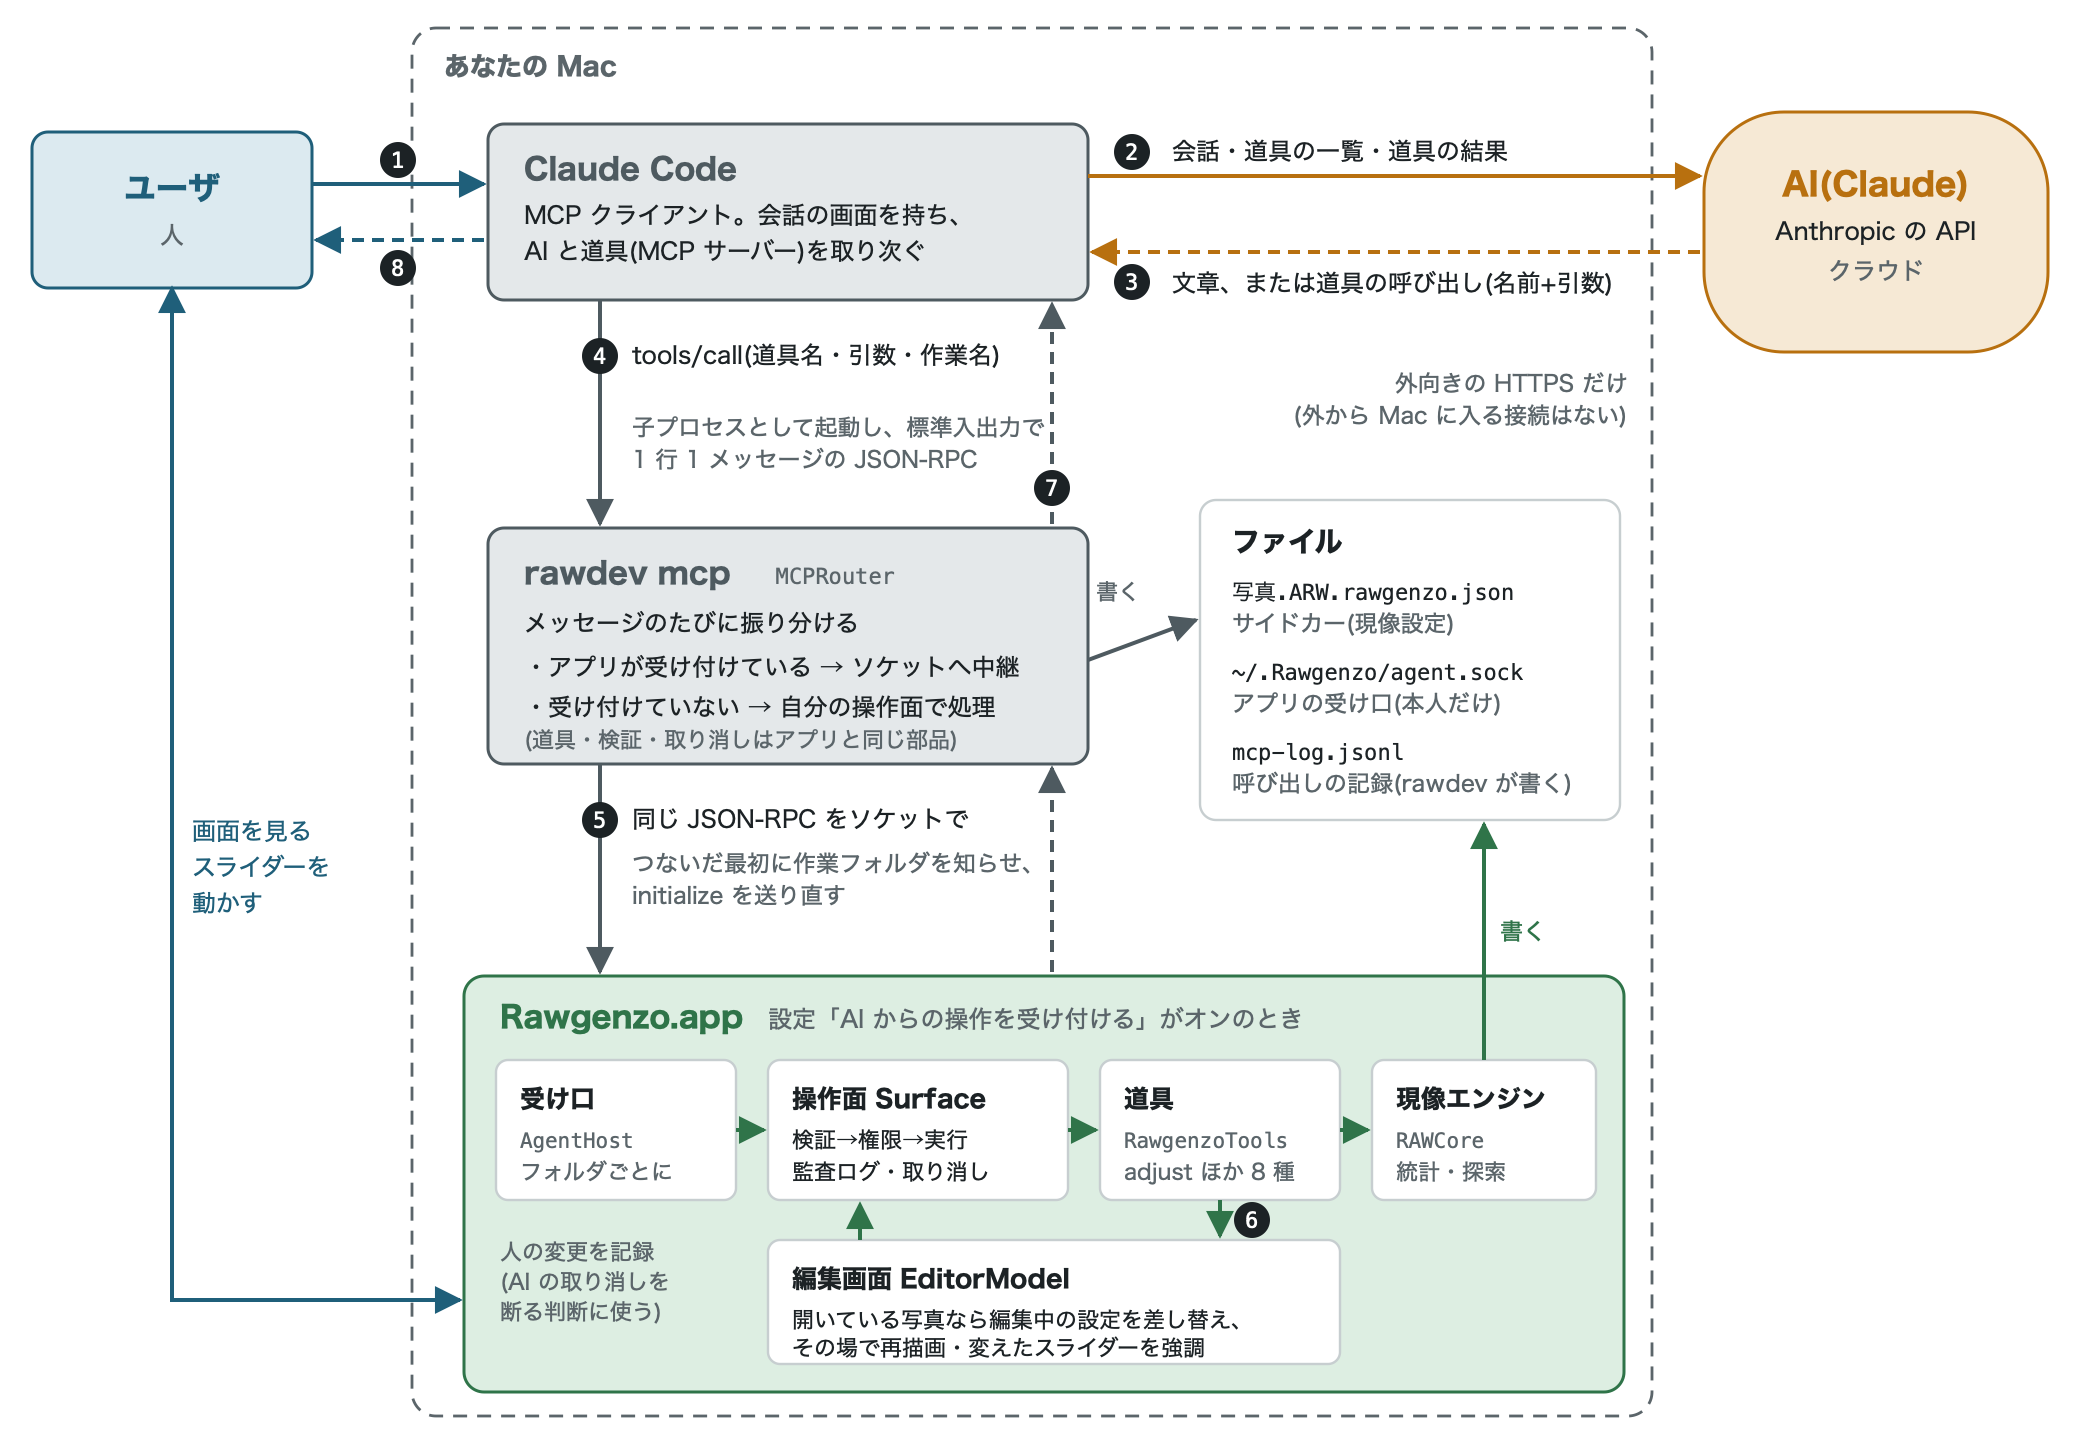
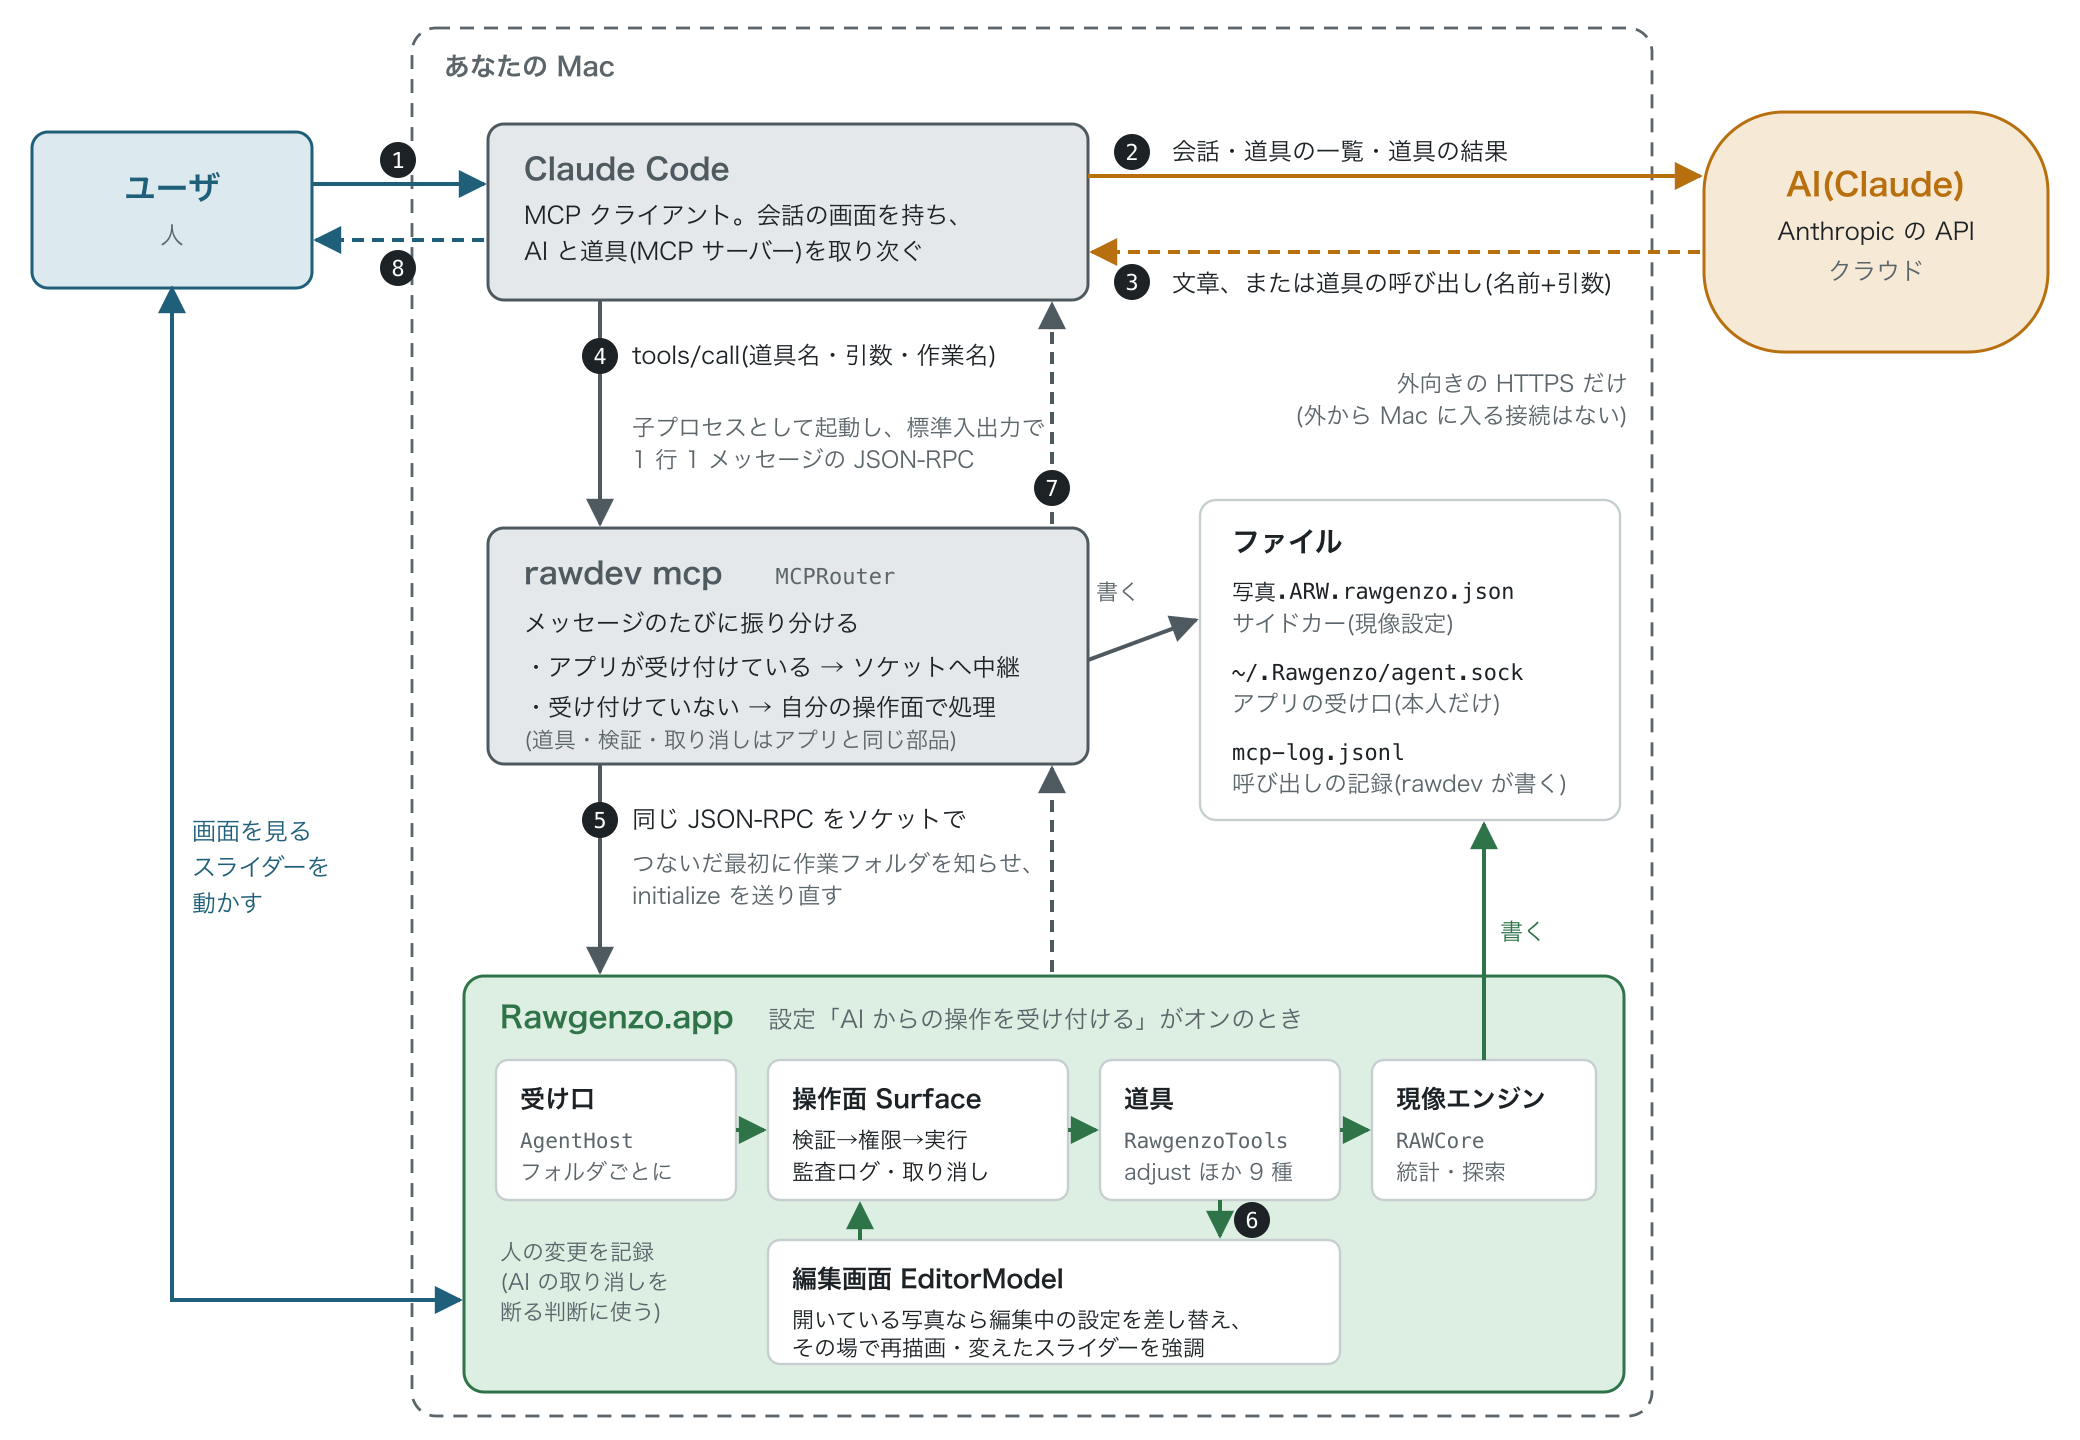
アプリで今開いている写真を返す道具 get_app_state を追加
「この写真」「今開いている写真」と言われたとき、AI がユーザの見ている写真を引けるようにする。
アプリが受け付けていれば、開いている写真の ID・フォルダが作業フォルダか・表示倍率・クロップ中かを返す。
作業フォルダの外の写真なら操作できないと知らせ、アプリにつながっていなければユーザに聞くよう促す。
文書の図の道具の数と一覧の字数(約 11,000 字)も直した(PNG は rsvg-convert で作り直した)。

diff --git a/Tests/RawgenzoSurfaceTests/RawgenzoSurfaceTests.swift b/Tests/RawgenzoSurfaceTests/RawgenzoSurfaceTests.swift
@@ -21,7 +21,7 @@ final class RawgenzoToolsSchemaTests: XCTestCase {
         let ws = RawgenzoWorkspace(folder: FileManager.default.temporaryDirectory)
         let surface = RawgenzoTools.makeSurface(workspace: ws)
         XCTAssertEqual(surface.descriptors.map(\.name),
-                       ["list_photos", "get_photo", "get_stats", "get_preview", "adjust", "solve_exposure", "undo", "recent_operations"])
+                       ["get_app_state", "list_photos", "get_photo", "get_stats", "get_preview", "adjust", "solve_exposure", "undo", "recent_operations"])
         XCTAssertEqual(surface.descriptors.first { $0.name == "adjust" }?.effect, .modify)
     }
 
@@ -253,6 +253,10 @@ final class RawgenzoAgentHostTests: XCTestCase {
         var settings = DevelopSettings()
         var applied: [(DevelopSettings, ChangeOrigin?)] = []
         func liveSettings(for url: URL) -> DevelopSettings? { url == openURL ? settings : nil }
+        var folderShown: URL?
+        func viewState() -> AppViewState {
+            AppViewState(folder: folderShown, openPhoto: openURL, zoom: 1, fitsWindow: false, isCropping: false)
+        }
         func applyLive(_ s: DevelopSettings, for url: URL, origin: ChangeOrigin?) -> Bool {
             guard url == openURL else { return false }
             settings = s
@@ -334,6 +338,30 @@ final class RawgenzoAgentHostTests: XCTestCase {
         XCTAssertEqual(replies.last?["result"]?["isError"], false, out)
         XCTAssertEqual(editor.settings.vibrance, 0.3, "アプリ(host)の編集中の設定に届いた")
         XCTAssertEqual(editor.applied.last?.1?.caller, .agent("mcp:relay"))
+    }
+
+    /// アプリで開いている写真を ID で返す。作業フォルダの外の写真なら操作できないと知らせる
+    func testAppStateReportsOpenPhoto() throws {
+        editor.folderShown = folder
+        func state() throws -> JSONValue {
+            let r = try exchange([RawgenzoBridge.handshake(folder: folder),
+                                  #"{"jsonrpc":"2.0","id":1,"method":"initialize","params":{"clientInfo":{"name":"t"}}}"#,
+                                  call(2, "get_app_state", [:])], replies: 2)
+            let text = try XCTUnwrap(r[1]["result"]?["content"]?.arrayValue?.first?["text"]?.stringValue)
+            return try JSONDecoder().decode(JSONValue.self, from: Data(text.utf8))
+        }
+        var s = try state()
+        XCTAssertEqual(s["app_connected"], true)
+        XCTAssertEqual(s["open_photo"], .string(ids[0]))
+        XCTAssertEqual(s["folder_is_workspace"], true)
+        XCTAssertEqual(s["zoom"], "100%")
+
+        editor.folderShown = URL(fileURLWithPath: "/somewhere/else", isDirectory: true)
+        editor.openURL = URL(fileURLWithPath: "/somewhere/else/DSC00001.ARW")
+        s = try state()
+        XCTAssertEqual(s["open_photo"], .null)
+        XCTAssertEqual(s["open_photo_outside_workspace"], "DSC00001.ARW")
+        XCTAssertEqual(s["app_folder"], "else")
     }
 
     func testRequiresHandshake() throws {
@@ -480,5 +508,17 @@ final class CrossProcessUndoTests: XCTestCase {
         XCTAssertTrue(rawdev.call("undo", as: ai).isError)
         XCTAssertEqual(saved(ids[0])?.exposure, 1, "断られなかった方の写真も変えない")
         XCTAssertEqual(saved(ids[1])?.exposure, 2)
+    }
+}
+
+final class AppStateWithoutAppTests: XCTestCase {
+    /// アプリにつながっていない(rawdev が自分で処理する)ときは、分からないと返す
+    func testWithoutApp() throws {
+        let surface = RawgenzoTools.makeSurface(workspace: RawgenzoWorkspace(folder: FileManager.default.temporaryDirectory))
+        let r = surface.call("get_app_state", as: .agent("t"))
+        XCTAssertFalse(r.isError)
+        guard case .json(let v)? = r.content.first else { return XCTFail("JSON が返らない") }
+        XCTAssertEqual(v["app_connected"], false)
+        XCTAssertNotNil(v["note"])
     }
 }

diff --git a/Sources/RawgenzoSurface/RawgenzoTools.swift b/Sources/RawgenzoSurface/RawgenzoTools.swift
@@ -11,6 +11,7 @@ public enum RawgenzoTools {
         設定は写真ごとのサイドカー(<RAW>.rawgenzo.json)に保存されます。adjust の変更は undo で取り消せます。
 
         進め方の目安:
+        - 「この写真」「今開いている写真」と言われたら、get_app_state でユーザがアプリで見ている写真を確かめる
         - list_photos で写真とメタデータ(ISO・レンズ・撮影日時など)を見る。条件で絞り込める
         - get_photo で今の設定を見る
         - 明るさや色の判断は、まず get_stats(数値。安い)で行う。画像が要るときだけ get_preview を使う(画像はトークンを多く使う)
@@ -62,6 +63,35 @@ public enum RawgenzoTools {
     // MARK: - 道具
 
     static func register(on surface: Surface, workspace ws: RawgenzoWorkspace) {
+        surface.register(ToolDescriptor(
+            name: "get_app_state", title: "アプリの表示",
+            description: "ユーザが Rawgenzo アプリで今見ているもの(開いている写真・表示倍率・クロップ中か)を返す。"
+                + "「この写真」「今開いている写真」と言われたらまず使う。open_photo が写真の ID。"
+                + "app_connected が false なら、アプリが起動していないか、AI からの操作の受け付けがオフで、アプリの状態は分からない",
+            effect: .read)) { _, _ in
+            guard let live = ws.live else {
+                return .json(["app_connected": false,
+                              "note": "Rawgenzo アプリにつながっていない(起動していないか、設定で AI からの操作の受け付けがオフ)。どの写真のことか、ユーザに聞くこと"])
+            }
+            let v = live.viewState()
+            var o: [String: JSONValue] = ["app_connected": true, "cropping": .bool(v.isCropping)]
+            let inWorkspace = v.folder.map { $0.standardizedFileURL.path == ws.folder.path } ?? false
+            o["folder_is_workspace"] = .bool(inWorkspace)
+            if let f = v.folder, !inWorkspace { o["app_folder"] = .string(f.lastPathComponent) }
+            if let p = v.openPhoto {
+                if inWorkspace, let id = try? ws.url(for: p.lastPathComponent).lastPathComponent {
+                    o["open_photo"] = .string(id)
+                } else {
+                    o["open_photo"] = .null
+                    o["open_photo_outside_workspace"] = .string(p.lastPathComponent)
+                    o["note"] = "アプリで開いている写真は、この作業フォルダの外にあるので操作できない"
+                }
+            } else {
+                o["open_photo"] = .null
+            }
+            o["zoom"] = v.fitsWindow ? "ウインドウに合わせる" : v.zoom.map { .string("\(Int(($0 * 100).rounded()))%") } ?? .null
+            return .json(.object(o))
+        }
         surface.register(ToolDescriptor(
             name: "list_photos", title: "写真の一覧",
             description: "作業フォルダの写真と撮影情報を名前順に返す。条件で絞り込める。"

diff --git a/Sources/RawgenzoSurface/RawgenzoWorkspace.swift b/Sources/RawgenzoSurface/RawgenzoWorkspace.swift
@@ -21,6 +21,26 @@ public protocol LiveEditing: AnyObject {
     func liveSettings(for url: URL) -> DevelopSettings?
     /// その写真をアプリで開いていれば、編集中の設定を差し替えて true。保存はしない(作業場所が保存する)
     func applyLive(_ settings: DevelopSettings, for url: URL, origin: ChangeOrigin?) -> Bool
+    /// ユーザがアプリで今見ているもの(「この写真」と言われたときに AI が引く)
+    func viewState() -> AppViewState
+}
+
+/// アプリの表示の状態
+public struct AppViewState: Sendable {
+    /// アプリで開いているフォルダ(無ければ nil)
+    public var folder: URL?
+    /// 表示している写真(無ければ nil)
+    public var openPhoto: URL?
+    /// 表示倍率(1 = 等倍)。ウインドウに合わせているときは fitsWindow が true
+    public var zoom: Double?
+    public var fitsWindow: Bool
+    /// クロップ枠を調整中か
+    public var isCropping: Bool
+
+    public init(folder: URL?, openPhoto: URL?, zoom: Double?, fitsWindow: Bool, isCropping: Bool) {
+        self.folder = folder; self.openPhoto = openPhoto; self.zoom = zoom
+        self.fitsWindow = fitsWindow; self.isCropping = isCropping
+    }
 }
 
 /// AI に操作させるときの作業場所: 1 つのフォルダと、その中の写真。

diff --git a/Sources/RawgenzoApp/EditorModel.swift b/Sources/RawgenzoApp/EditorModel.swift
@@ -415,6 +415,14 @@ final class EditorModel: ObservableObject {
         photo?.url.standardizedFileURL.path == url.standardizedFileURL.path
     }
 
+    /// AI に見せる、ユーザが今見ているもの
+    func viewStateForAgent() -> AppViewState {
+        let fits: Bool
+        if case .fit = zoomMode { fits = true } else { fits = false }
+        return AppViewState(folder: folder, openPhoto: photo?.url, zoom: displayZoom > 0 ? displayZoom : nil,
+                            fitsWindow: fits, isCropping: isCropping)
+    }
+
     /// AI が読む設定: 開いている写真なら、まだ保存していない変更を含む編集中の値
     func liveSettingsForAgent(_ url: URL) -> DevelopSettings? {
         isOpen(url) ? settings : nil

diff --git a/Sources/RawgenzoApp/AgentLink.swift b/Sources/RawgenzoApp/AgentLink.swift
@@ -23,6 +23,11 @@ final class AgentLiveLink: LiveEditing {
         onMain { $0.applyAgentSettings(settings, for: url, origin: origin) } ?? false
     }
 
+    func viewState() -> AppViewState {
+        onMain { $0.viewStateForAgent() }
+            ?? AppViewState(folder: nil, openPhoto: nil, zoom: nil, fitsWindow: true, isCropping: false)
+    }
+
     private func onMain<T>(_ body: @MainActor (EditorModel) -> T?) -> T? {
         if Thread.isMainThread {
             return MainActor.assumeIsolated { model.flatMap { body($0) } }

diff --git a/README.md b/README.md
@@ -91,7 +91,8 @@ swift run rawdev                         # オプションの一覧
 ## AI に現像を任せる(MCP サーバー・試作)
 
 `rawdev mcp <フォルダ>` は、そのフォルダの写真の現像設定を AI に操作させる MCP サーバーです。
-Claude Code や Claude Desktop などの MCP クライアントに登録すると、AI が写真の一覧・撮影情報・現像結果の統計・縮小画像を見て、
+Claude Code や Claude Desktop などの MCP クライアントに登録すると、AI が写真の一覧・撮影情報・現像結果の統計・縮小画像や、
+アプリで今開いている写真(アプリが受け付けているとき。「この写真の白飛びを抑えて」のように頼めます)を見て、
 現像設定を変えられるようになります。たとえば「ISO 6400 以上の写真は輝度ノイズ除去を 0.5 に」「白飛びを抑えて」
 「全部の写真の明るさを揃えて」のように頼めます。明るさや白飛びは、AI が目標(平均輝度・白飛びの割合)を決め、
 合う露出とハイライト回復は Rawgenzo が探します。

diff --git a/CLAUDE.md b/CLAUDE.md
@@ -73,7 +73,7 @@ Sources/OperationSurface/   AI などに操作を委ねる汎用の操作面(Fou
   MCPRouter                 MCP のメッセージを、起動中のアプリ(ソケットの先)か自分の操作面かに、メッセージごとに振り分ける
 Sources/RawgenzoSurface/    Rawgenzo の領域定義(RAWCore と OperationSurface を使う)
   RawgenzoWorkspace         作業フォルダと写真(ID = フォルダ内のファイル名。フォルダの外は指せない)
-  RawgenzoTools             道具: list_photos / get_photo / get_stats / get_preview / adjust / solve_exposure
+  RawgenzoTools             道具: get_app_state / list_photos / get_photo / get_stats / get_preview / adjust / solve_exposure
                             (+ undo / recent_operations)
   RawgenzoAgentHost         アプリの中でソケット(~/.Rawgenzo/agent.sock)を受け、作業フォルダごとの操作面につなぐ。
                             RawgenzoBridge(中継との決まり: 最初の通知 rawgenzo/workspace で作業フォルダを知らせる)

diff --git a/docs/ai-mcp-architecture.md b/docs/ai-mcp-architecture.md
@@ -94,7 +94,7 @@ swiftc -O -o /tmp/svg2png scripts/svg2png.swift
 | 場所 | 内容 |
 |---|---|
 | `Sources/OperationSurface/` | 汎用の部分(Rawgenzo に依存しない)。`Surface`、`MCPServer`、`MCPRouter`、`UnixSocket` |
-| `Sources/RawgenzoSurface/` | Rawgenzo の道具(`RawgenzoTools`)、作業場所(`RawgenzoWorkspace`)、アプリの受け口(`RawgenzoAgentHost`) |
+| `Sources/RawgenzoSurface/` | Rawgenzo の道具(`RawgenzoTools`。`get_app_state` はアプリで今開いている写真を返す)、作業場所(`RawgenzoWorkspace`)、アプリの受け口(`RawgenzoAgentHost`) |
 | `Sources/rawdev/main.swift` | `rawdev mcp`(振り分けと記録) |
 | `Sources/RawgenzoApp/AgentLink.swift`、`EditorModel.swift` | アプリの編集中の写真への反映、人の変更の記録、画面の知らせと強調 |
 
